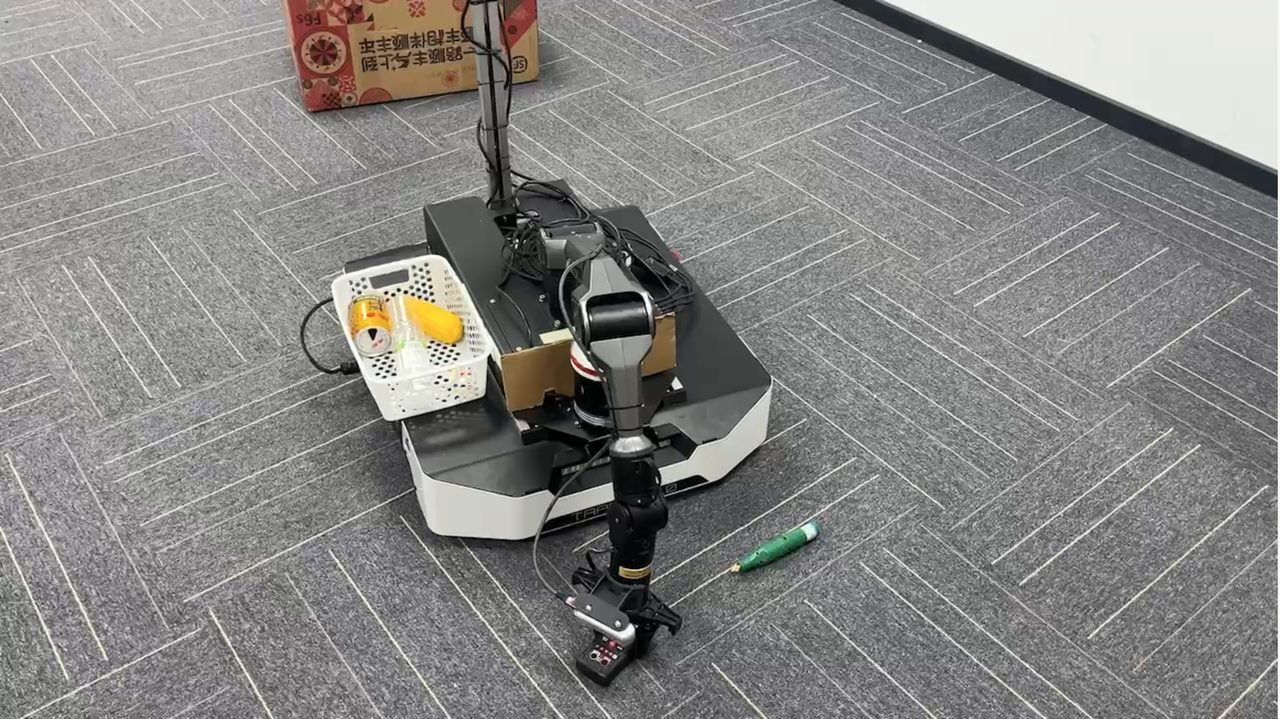
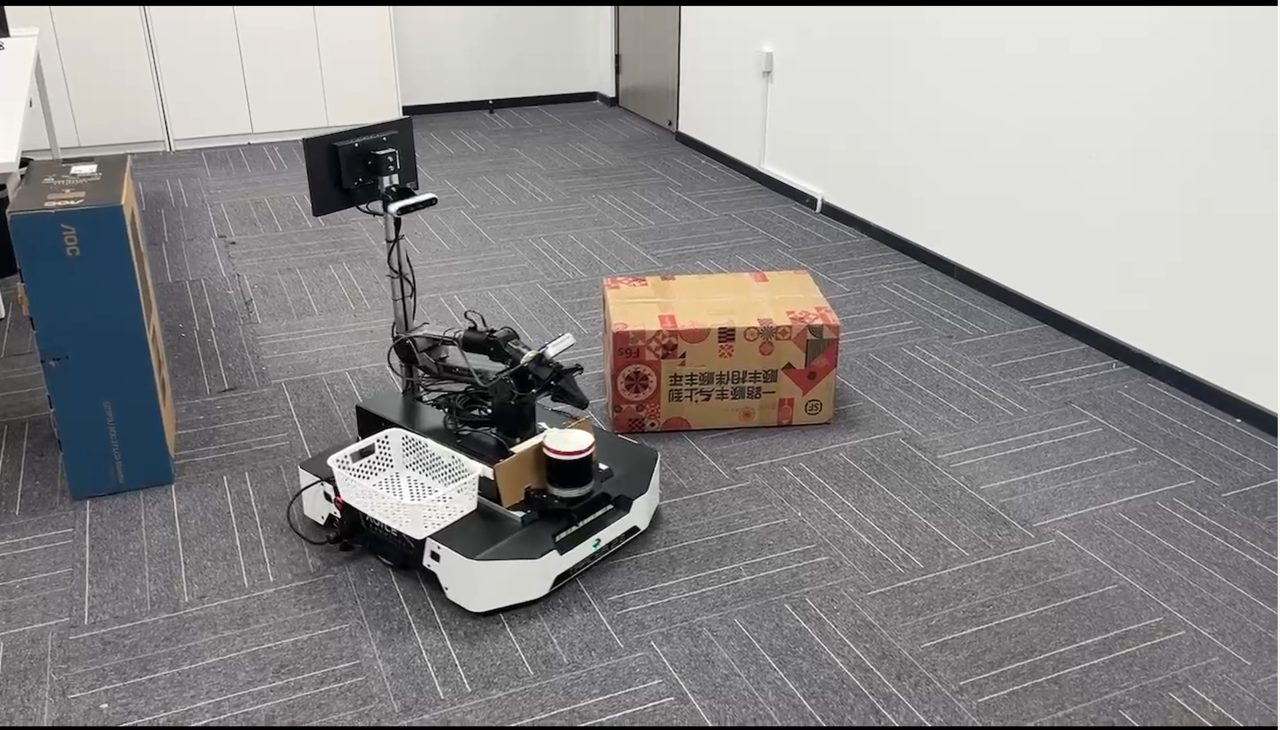
docs: center demo GIF and swap bypass/grasp image names

diff --git a/README_zh.md b/README_zh.md
@@ -19,7 +19,11 @@
 
 ## 演示
 
+<div align="center">
+
 ![演示](demo/robot_grasp_anni.gif)
+
+</div>
 
 | 机器人模型（URDF） | 系统启动 |
 |---|---|

diff --git a/README.md b/README.md
@@ -20,7 +20,11 @@
 
 ## Demo
 
+<div align="center">
+
 ![Demo](demo/robot_grasp_anni.gif)
+
+</div>
 
 | Robot Model (URDF) | System Startup |
 |---|---|
